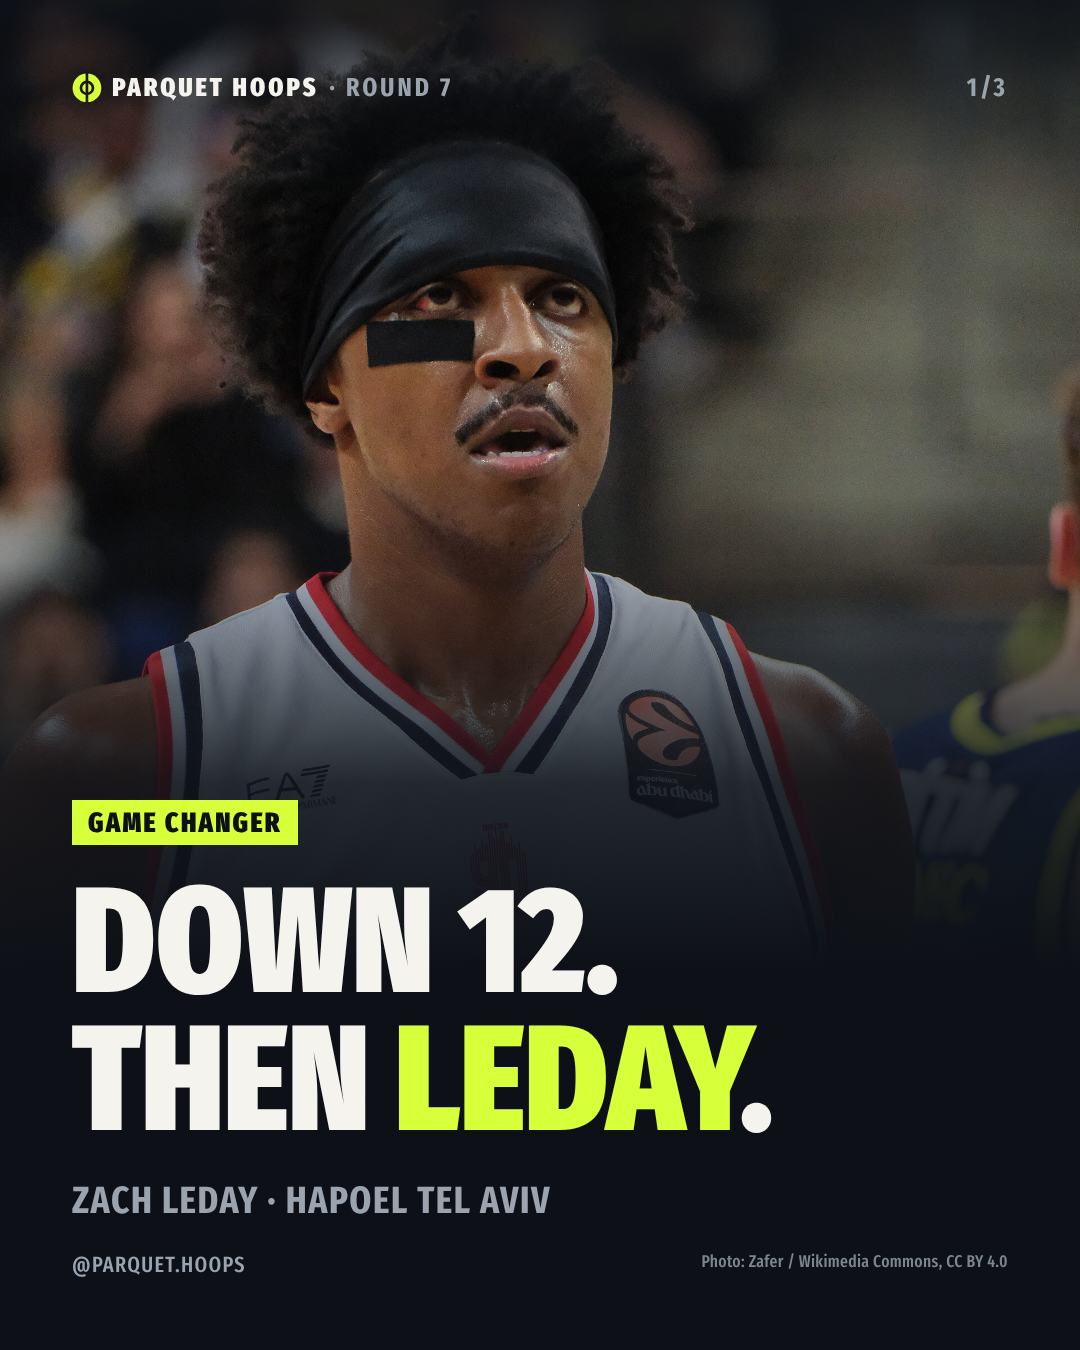
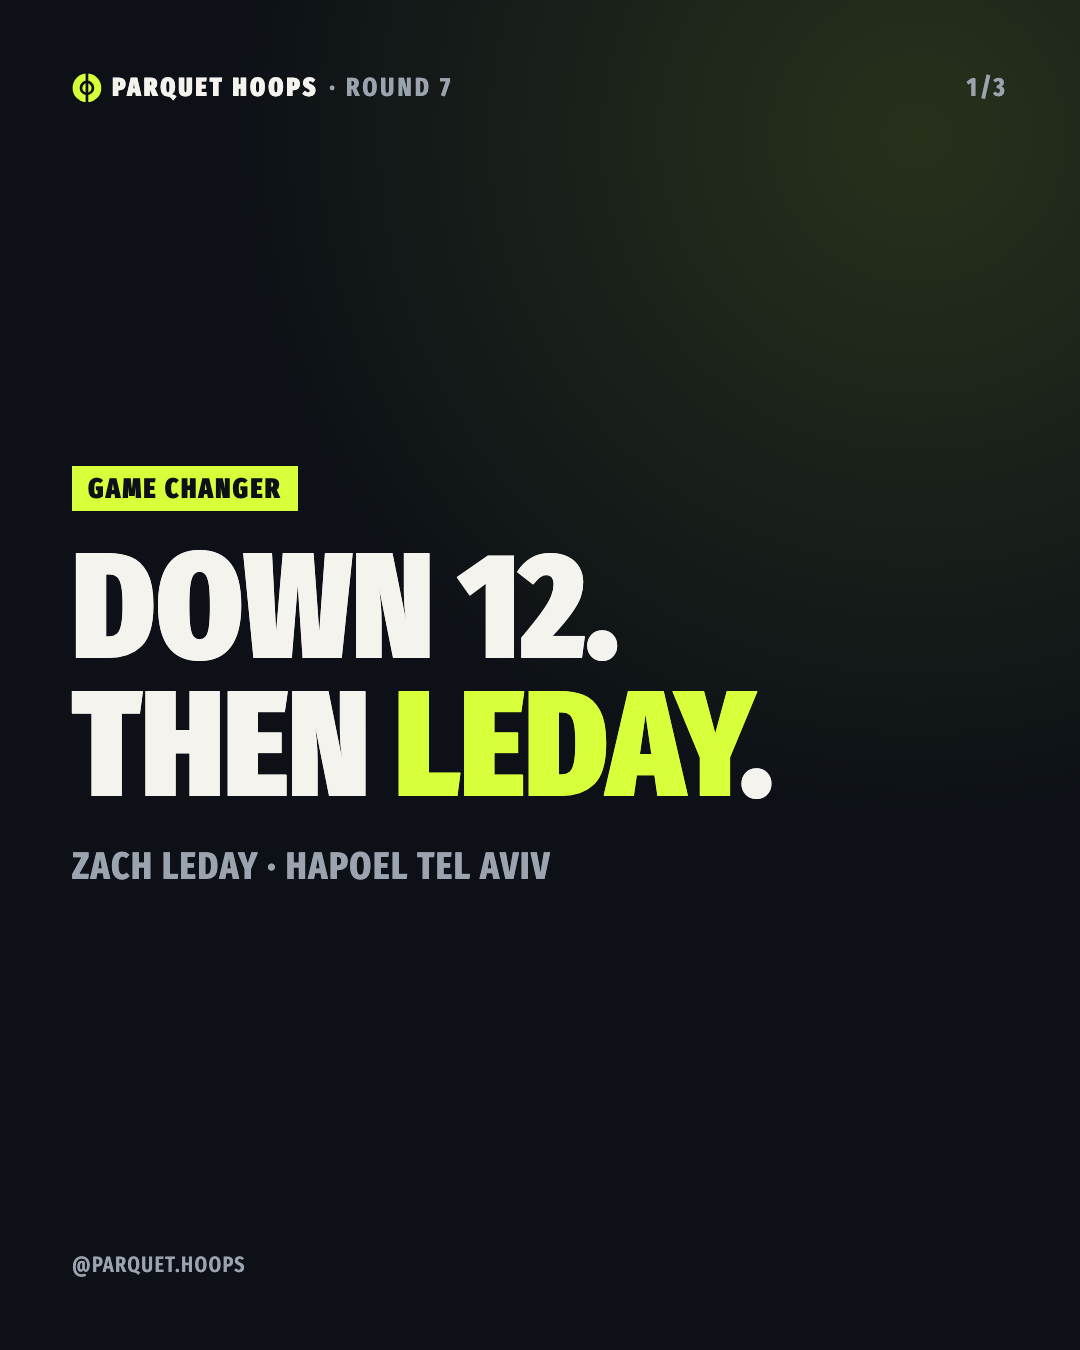
01-leday: no photo (only free photo shows a former club's jersey); rule: current jersey only

diff --git a/CLAUDE.md b/CLAUDE.md
@@ -45,7 +45,8 @@ Prefer the story with the strongest *narrative*, not just the biggest number. Th
 ## Photos
 When a story is about one person (player or coach), Instagram slide 1 carries a photo of them. It doesn't need to be from that game.
 - Only freely licensed photos from Wikimedia Commons (CC BY, CC BY-SA, CC0, public domain). Never official EuroLeague, club or agency photos, even though the API links to them.
-- `python3 scripts/commons_photo.py --search "<name>"` lists candidates. Download a few as thumbnails, look at them, and pick: the person clearly visible and facing the camera, ideally in their current team's jersey, most recent first.
+- `python3 scripts/commons_photo.py --search "<name>"` lists candidates. Download a few as thumbnails, look at them, and pick: the person clearly visible and facing the camera, most recent first.
+- **Players must be in their current team's jersey** (the owner's rule, 2026-10-21). A photo in a former club's jersey is never used: no photo at all is better. Coaches: current team's kit or neutral clothes.
 - `python3 scripts/commons_photo.py --get <story> "File:…"` saves `photo.jpg` + `photo.json` (credit). The renderer then puts the photo full-bleed behind slide 1 with the credit in the footer. Set `"focus"` in `photo.json` (CSS background-position, default `50% 20%`) if the face is cropped.
 - Add the credit as the last caption line before the hashtags: `📷 <author> / Wikimedia Commons (<license>)`.
 - Team stories (no single person) and people without a usable photo get no photo. Example: `assets/brand/example-photo-slide.png`.

diff --git a/rounds/E2026/round-07/day-1/01-leday/post.en.md b/rounds/E2026/round-07/day-1/01-leday/post.en.md
@@ -2,7 +2,6 @@
 
 ## Facts to verify
 - "Last round they ended Panathinaikos' perfect start" (caption): from our Round 6 data (Panathinaikos 81-91 Hapoel, PAO 5-0 before). Not in this day's digest.
-- Photo is from March 2026 in an Olimpia Milan jersey (no Commons photo of him in Hapoel colours yet).
 
 **Why this story:** The day's only game. Hapoel (4-2) trailed Virtus (4-2) 36-48 at halftime, won the third quarter 28-14 to lead 64-62, then the fourth 26-19. Leday was the day's top PIR: 33, with 22 pts, 10 reb, 4 ast, 0 turnovers, 8/9 FT and +25. Played at Arena 8888 Sofia.
 
@@ -24,7 +23,7 @@ Hapoel go 5-2. #EuroLeague #HTAVIR
 
 ## Instagram carousel
 
-**Slide 1 (hook, photo):**
+**Slide 1 (hook):**
 DOWN 12. THEN LEDAY.
 Zach Leday · Hapoel Tel Aviv
 
@@ -50,7 +49,5 @@ Leday: 22 points, 10 rebounds, 33 PIR. Zero turnovers. +25.
 Last round they ended Panathinaikos' perfect start. Now Itoudis' Hapoel are 5-2.
 
 Is Hapoel the real deal this season? 👇
-
-📷 Zafer / Wikimedia Commons (CC BY 4.0)
 
 #EuroLeague #HTAVIR #HapoelTelAviv #Virtus #Leday #Itoudis #VirtusBologna #Basketball #EuroLeagueBasketball #BasketballEurope

diff --git a/rounds/E2026/round-07/day-1/01-leday/post.el.md b/rounds/E2026/round-07/day-1/01-leday/post.el.md
@@ -2,7 +2,6 @@
 
 ## Facts to verify
 - "Την προηγούμενη αγωνιστική σταμάτησε το αήττητο του Παναθηναϊκού στο ΟΑΚΑ" (caption): from our Round 6 data (Panathinaikos 81-91 Hapoel, PAO 5-0 before). Not in this day's digest.
-- Photo is from March 2026 in an Olimpia Milan jersey.
 
 Same story as the English post. How it's localized: it leads with Itoudis' Hapoel and the link to Panathinaikos' first loss at ΟΑΚΑ, the angle Greek fans already know.
 
@@ -23,7 +22,5 @@ Cards: `cards/el/ig-1..3.png` (Instagram)
 Την προηγούμενη αγωνιστική η Χάποελ του Ιτούδη σταμάτησε το αήττητο του Παναθηναϊκού στο ΟΑΚΑ. Τώρα είναι 5-2.
 
 Πού μπορεί να φτάσει φέτος η Χάποελ του Ιτούδη; 👇
-
-📷 Zafer / Wikimedia Commons (CC BY 4.0)
 
 #EuroLeague #HTAVIR #ΧάποελΤελΑβίβ #Βίρτους #Ιτούδης #Λεντέι #HapoelTelAviv #Virtus #μπάσκετ #basketball

diff --git a/rounds/E2026/round-07/day-1/README.md b/rounds/E2026/round-07/day-1/README.md
@@ -7,5 +7,5 @@ One game today (Hapoel Tel Aviv 90-81 Virtus, Sofia), so one post. Fresh news: q
 | 01 | now (on approval) | [Leday: game changer](01-leday/) | Down 12 at the half, then Leday: 22 pts, 10 reb, 33 PIR as Hapoel flip it 90-81 and go 5-2 |
 
 Notes:
-- The photo (Commons, CC BY 4.0) shows Leday in an Olimpia Milan jersey (March 2026); there's no free photo of him in Hapoel colours yet.
+- No photo: the only free photo of Leday shows him in an Olimpia Milano jersey (owner: never use a photo in a former club's jersey).
 - No club crests on the score cards: the crest download was blocked from the cloud runner, and a crest for one team next to a styled badge for the other looked inconsistent.
